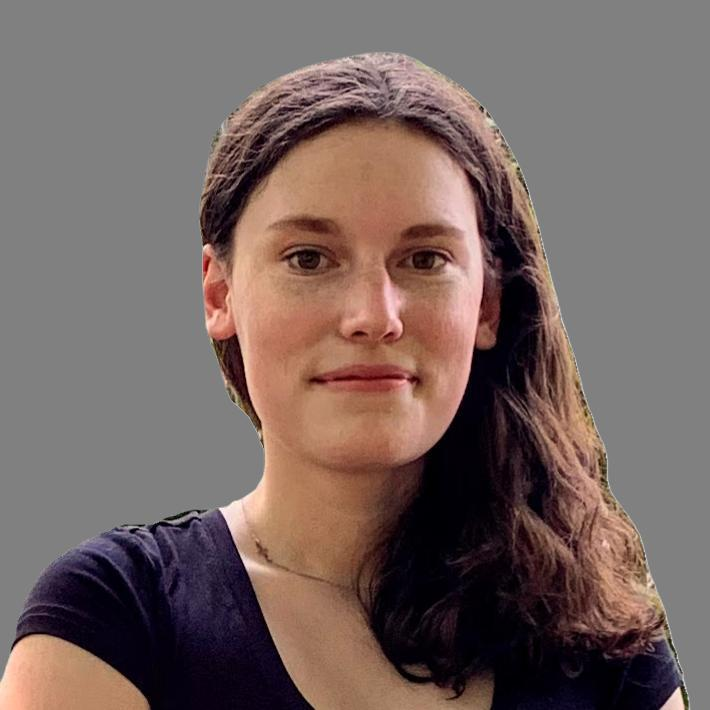
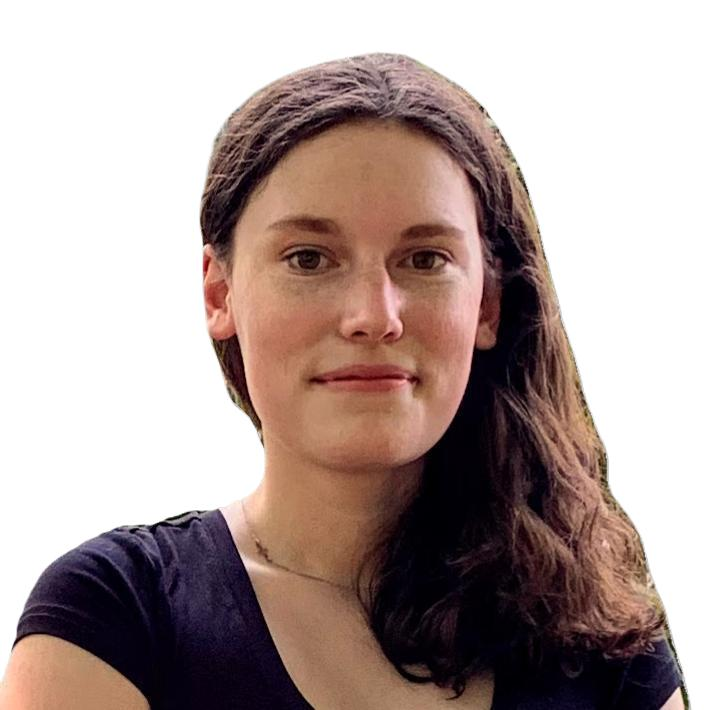
Signed-off-by: Ciaran Shaughnessy <ciaran.a.shaughnessy@gmail.com>

diff --git a/people.html b/people.html
@@ -61,7 +61,7 @@
         <!-- ------------------- CIARAN SHAUGHNESSY ------------------ -->
 
         <div class="card">
-          <img class="profile-photo" alt="Ciaran Shaughnessy" src="images/people/ciaran-shaughnessy.JPG" />
+          <img class="profile-photo" alt="Ciaran Shaughnessy" src="images/people/ciaran-shaughnessy.PNG" />
           <div class="card-content">
             <h3>Ciaran A. Shaughnessy, Ph.D.</h3>
             <div class="pronouns">he/him</div>
@@ -129,7 +129,7 @@
             <!-- ------------------- AVA CANNIZZARO ---------------------- -->
 
             <div class="card">
-              <img class="profile-photo" alt="Ava Cannizzaro" src="images/people/ava-cannizzaro.JPG" />
+              <img class="profile-photo" alt="Ava Cannizzaro" src="images/people/ava-cannizzaro.PNG" />
               <div class="card-content">
                 <h3>Ava Cannizzaro</h3>
                 <div class="pronouns">she/her</div>
@@ -152,7 +152,7 @@
             <!-- ------------------- ALLISON DELOACHE -------------------- -->
 
             <div class="card">
-              <img class="profile-photo" alt="Allison DeLoache" src="images/people/allison-deloache.JPG" />
+              <img class="profile-photo" alt="Allison DeLoache" src="images/people/allison-deloache.PNG" />
               <div class="card-content">
                 <h3>Allison DeLoache, M.S.</h3>
                 <div class="pronouns">she/her</div>
@@ -175,7 +175,7 @@
             <!-- ------------------- DILLON FLOWERS ---------------------- -->
 
             <div class="card">
-              <img class="profile-photo" alt="Dillon Flowers" src="images/people/dillon-flowers.JPG" />
+              <img class="profile-photo" alt="Dillon Flowers" src="images/people/dillon-flowers.PNG" />
               <div class="card-content">
                 <h3>Dillon Flowers, M.S.</h3>
                 <div class="pronouns">he/him</div>
@@ -198,7 +198,7 @@
             <!-- ------------------- SUSANNE HAHS ------------------------ -->
 
             <div class="card">
-              <img class="profile-photo" alt="Susanne Hahs" src="images/people/susanne-hahs.JPG" />
+              <img class="profile-photo" alt="Susanne Hahs" src="images/people/susanne-hahs.PNG" />
               <div class="card-content">
                 <h3>Susanne Hahs</h3>
                 <div class="pronouns">she/her</div>
@@ -220,7 +220,7 @@
             <!-- ------------------- MADISON MERIDETH -------------------- -->
 
             <div class="card">
-              <img class="profile-photo" alt="Madison Merideth" src="images/people/madison-merideth.JPG" />
+              <img class="profile-photo" alt="Madison Merideth" src="images/people/madison-merideth.PNG" />
               <div class="card-content">
                 <h3>Madison Merideth</h3>
                 <div class="pronouns">she/her</div>
@@ -258,7 +258,7 @@
             <!-- ------------------- CHASE ALLENSWORTH --------------------- -->
 
             <div class="card">
-              <img class="profile-photo" alt="Chase Allensworth" src="images/people/chase-allensworth.JPG" />
+              <img class="profile-photo" alt="Chase Allensworth" src="images/people/chase-allensworth.PNG" />
               <div class="card-content">
                 <h3>Chase Allensworth</h3>
                 <div class="pronouns">he/him</div>
@@ -271,7 +271,7 @@
             <!-- ------------------- KRISTINE BRANCH --------------------- -->
 
             <div class="card">
-              <img class="profile-photo" alt="Kristine Branch" src="images/people/kristine-branch.JPG" />
+              <img class="profile-photo" alt="Kristine Branch" src="images/people/kristine-branch.PNG" />
               <div class="card-content">
                 <h3>Kristine Branch</h3>
                 <div class="pronouns">she/her</div>
@@ -284,7 +284,7 @@
             <!-- ------------------- CONNER BROWN ------------------------ -->
 
             <div class="card">
-              <img class="profile-photo" alt="Conner Brown" src="images/people/conner-brown.JPG" />
+              <img class="profile-photo" alt="Conner Brown" src="images/people/conner-brown.PNG" />
               <div class="card-content">
                 <h3>Conner Brown</h3>
                 <div class="pronouns">he/him</div>
@@ -297,7 +297,7 @@
             <!-- ------------------- ISABELA FERMO --------------------- -->
 
             <div class="card">
-              <img class="profile-photo" alt="Isabela Fermo" src="images/people/isabela-fermo.JPG" />
+              <img class="profile-photo" alt="Isabela Fermo" src="images/people/isabela-fermo.PNG" />
               <div class="card-content">
                 <h3>Isabela Fermo</h3>
                 <div class="pronouns">she/her</div>
@@ -311,7 +311,7 @@
             <!-- ------------------- SAMANTHA KENNEDY -------------------- -->
 
             <div class="card">
-              <img class="profile-photo" alt="Samantha Kennedy" src="images/people/samantha-kennedy.JPG" />
+              <img class="profile-photo" alt="Samantha Kennedy" src="images/people/samantha-kennedy.PNG" />
               <div class="card-content">
                 <h3>Samantha Kennedy</h3>
                 <div class="pronouns">she/her</div>

diff --git a/style.css b/style.css
@@ -3,7 +3,7 @@
    ========================= */
 :root {
     --primary: #fe5c00;
-    --primary-muted: #ffa97a;
+    --primary-muted: #ff945b;
     --bg: #ffffff;
     --text: #1a1a1a;
     --gray: #dddddd;
@@ -236,6 +236,7 @@ footer .right {
     align-items: flex-start;
 }
 .profile-photo {
+  background-color: var(--primary-muted);
   width: 150px;
   height: 150px;
   object-fit: cover;
